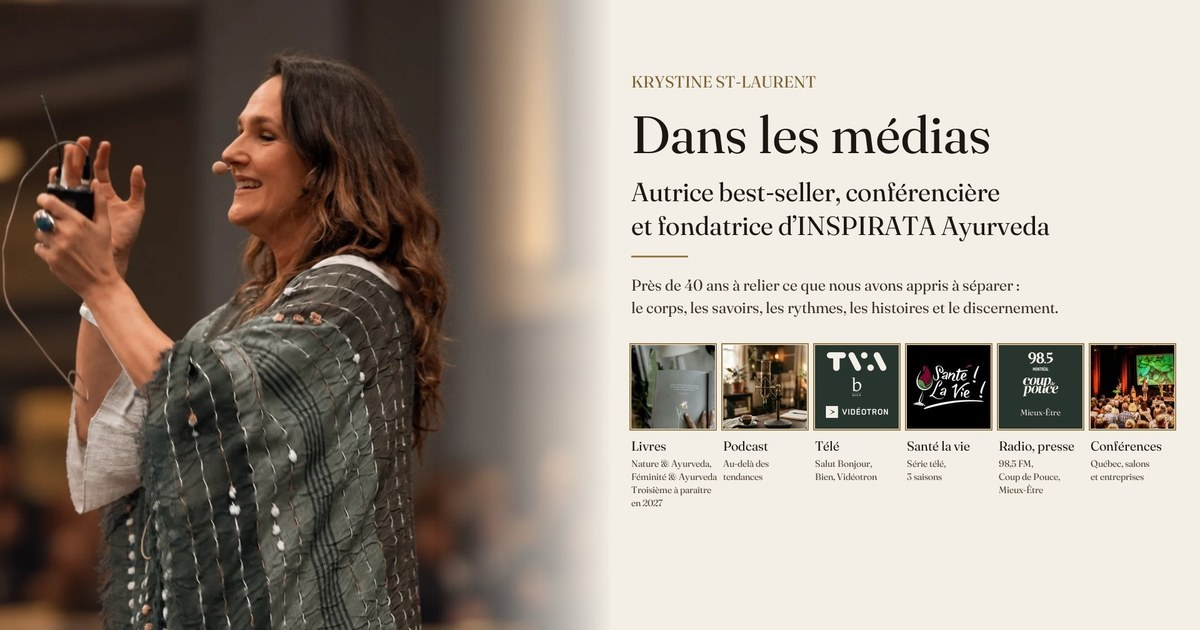
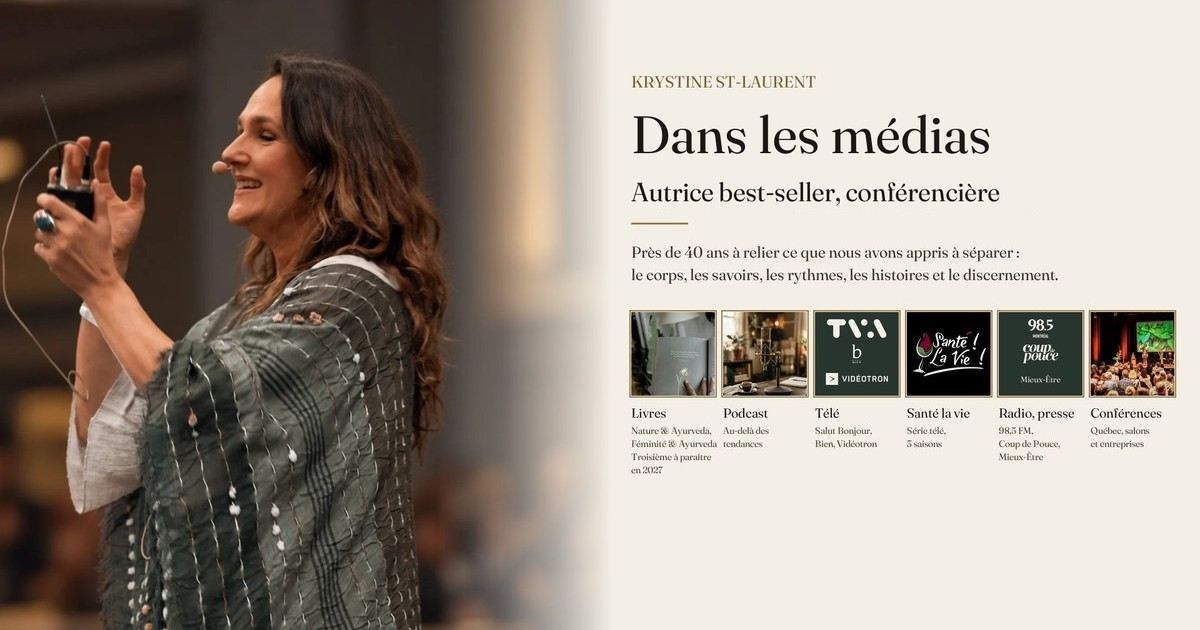
Vitrine du site : « Autrice best-seller et conférencière » dans le titre et l'aperçu partagé (image sans INSPIRATA); bio complète gardée avec INSPIRATA AYURVEDA en majuscules partout; fiche Google : près de 40 ans

Changed region(s): [[0.5242, 0.3317, 0.9867, 0.8143]]

diff --git a/public/accueil/index.html b/public/accueil/index.html
@@ -3,7 +3,7 @@
 <head>
 <meta charset="UTF-8" />
 <meta name="viewport" content="width=device-width, initial-scale=1.0" />
-<title>Krystine St-Laurent · Autrice best-seller, conférencière et fondatrice d’INSPIRATA Ayurveda</title>
+<title>Krystine St-Laurent · Autrice best-seller et conférencière</title>
 <meta name="description" content="Krystine St-Laurent, autrice et experte en Ayurveda depuis près de 40 ans : livres, podcast, conférences, retraites et la boutique Inspirata Ayurveda. Le retour au corps, au rythme et à la nature." />
 <meta name="author" content="Krystine St-Laurent" />
 <meta name="robots" content="index,follow,max-image-preview:large" />
@@ -11,15 +11,15 @@
 <meta property="og:type" content="website" />
 <meta property="og:site_name" content="Krystine St-Laurent" />
 <meta property="og:locale" content="fr_CA" />
-<meta property="og:title" content="Krystine St-Laurent · Autrice best-seller, conférencière et fondatrice d’INSPIRATA Ayurveda" />
+<meta property="og:title" content="Krystine St-Laurent · Autrice best-seller et conférencière" />
 <meta property="og:description" content="Près de 40 ans à relier ce que nous avons appris à séparer : le corps, les savoirs, les rythmes, les histoires et le discernement." />
 <meta property="og:url" content="https://www.krystinestlaurent.ca/accueil" />
-<meta property="og:image" content="https://www.krystinestlaurent.ca/medias/partage.jpg" />
+<meta property="og:image" content="https://www.krystinestlaurent.ca/medias/partage.jpg?v=2" />
 <meta name="twitter:card" content="summary_large_image" />
-<meta name="twitter:title" content="Krystine St-Laurent · Autrice best-seller, conférencière et fondatrice d’INSPIRATA Ayurveda" />
+<meta name="twitter:title" content="Krystine St-Laurent · Autrice best-seller et conférencière" />
 <meta name="twitter:description" content="Près de 40 ans à relier ce que nous avons appris à séparer : le corps, les savoirs, les rythmes, les histoires et le discernement." />
-<meta name="twitter:image" content="https://www.krystinestlaurent.ca/medias/partage.jpg" />
-<script type="application/ld+json">{"@context":"https://schema.org","@graph":[{"@type":"WebSite","@id":"https://www.krystinestlaurent.ca/#website","url":"https://www.krystinestlaurent.ca/","name":"Krystine St-Laurent","inLanguage":"fr-CA","publisher":{"@id":"https://www.krystinestlaurent.ca/#person"}},{"@type":"Person","@id":"https://www.krystinestlaurent.ca/#person","name":"Krystine St-Laurent","url":"https://www.krystinestlaurent.ca/","jobTitle":"Autrice, conférencière et experte en Ayurveda","description":"Autrice best-seller, conférencière et experte en Ayurveda depuis près de 40 ans. Fondatrice d'Inspirata Ayurveda. Accompagne le retour au corps, aux rythmes et aux cycles de la nature.","knowsAbout":["Ayurveda","plantes médicinales","aromathérapie","bien-être féminin","santé intégrative"],"sameAs":["https://www.instagram.com/krystinesaintlaurent","https://www.facebook.com/Krystinestlaurent","https://www.youtube.com/@KrystineStLaurent"],"worksFor":{"@type":"Organization","name":"Inspirata Ayurveda","url":"https://www.krystinestlaurent.ca/boutique"}}]}</script>
+<meta name="twitter:image" content="https://www.krystinestlaurent.ca/medias/partage.jpg?v=2" />
+<script type="application/ld+json">{"@context":"https://schema.org","@graph":[{"@type":"WebSite","@id":"https://www.krystinestlaurent.ca/#website","url":"https://www.krystinestlaurent.ca/","name":"Krystine St-Laurent","inLanguage":"fr-CA","publisher":{"@id":"https://www.krystinestlaurent.ca/#person"}},{"@type":"Person","@id":"https://www.krystinestlaurent.ca/#person","name":"Krystine St-Laurent","url":"https://www.krystinestlaurent.ca/","jobTitle":"Autrice, conférencière et experte en Ayurveda","description":"Autrice best-seller, conférencière et experte en Ayurveda depuis près de 40 ans. Fondatrice d'INSPIRATA AYURVEDA. Accompagne le retour au corps, aux rythmes et aux cycles de la nature.","knowsAbout":["Ayurveda","plantes médicinales","aromathérapie","bien-être féminin","santé intégrative"],"sameAs":["https://www.instagram.com/krystinesaintlaurent","https://www.facebook.com/Krystinestlaurent","https://www.youtube.com/@KrystineStLaurent"],"worksFor":{"@type":"Organization","name":"Inspirata Ayurveda","url":"https://www.krystinestlaurent.ca/boutique"}}]}</script>
 <link rel="preload" as="image" href="/accueil/assets/hero-ml-poster.jpg" fetchpriority="high" />
 <link rel="preconnect" href="https://fonts.googleapis.com" />
 <link rel="preconnect" href="https://fonts.gstatic.com" crossorigin />

diff --git a/index.html b/index.html
@@ -6,7 +6,7 @@
     <meta name="viewport" content="width=device-width, initial-scale=1.0" />
 
     <!-- SEO Primary -->
-    <title>Krystine St-Laurent · Autrice best-seller, conférencière et fondatrice d’INSPIRATA Ayurveda</title>
+    <title>Krystine St-Laurent · Autrice best-seller et conférencière</title>
     <meta name="description" content="Krystine St-Laurent, autrice best-seller, conférencière et experte en Ayurveda. Trilogie d'Origine, Expérience Origine, podcast, retraites et rituels essentiels. 37 ans d'expérience au service d'un art de vivre conscient." />
     <meta name="author" content="Krystine St-Laurent" />
     <link rel="canonical" href="https://www.krystinestlaurent.ca/" />
@@ -15,9 +15,9 @@
     <meta property="og:type" content="website" />
     <meta property="og:url" content="https://www.krystinestlaurent.ca/" />
     <meta property="og:site_name" content="Krystine St-Laurent" />
-    <meta property="og:title" content="Krystine St-Laurent · Autrice best-seller, conférencière et fondatrice d’INSPIRATA Ayurveda" />
+    <meta property="og:title" content="Krystine St-Laurent · Autrice best-seller et conférencière" />
     <meta property="og:description" content="Près de 40 ans à relier ce que nous avons appris à séparer : le corps, les savoirs, les rythmes, les histoires et le discernement." />
-    <meta property="og:image" content="https://www.krystinestlaurent.ca/medias/partage.jpg" />
+    <meta property="og:image" content="https://www.krystinestlaurent.ca/medias/partage.jpg?v=2" />
     <meta property="og:image:width" content="1200" />
     <meta property="og:image:height" content="630" />
     <meta property="og:image:alt" content="Krystine St-Laurent, accueil du site" />
@@ -26,9 +26,9 @@
 
     <!-- Twitter Card -->
     <meta name="twitter:card" content="summary_large_image" />
-    <meta name="twitter:title" content="Krystine St-Laurent · Autrice best-seller, conférencière et fondatrice d’INSPIRATA Ayurveda" />
+    <meta name="twitter:title" content="Krystine St-Laurent · Autrice best-seller et conférencière" />
     <meta name="twitter:description" content="Près de 40 ans à relier ce que nous avons appris à séparer : le corps, les savoirs, les rythmes, les histoires et le discernement." />
-    <meta name="twitter:image" content="https://www.krystinestlaurent.ca/medias/partage.jpg" />
+    <meta name="twitter:image" content="https://www.krystinestlaurent.ca/medias/partage.jpg?v=2" />
     <meta name="twitter:image:alt" content="Krystine St-Laurent, accueil du site" />
 
     <!-- Schema.org Person -->
@@ -38,7 +38,7 @@
       "@type": "Person",
       "name": "Krystine St-Laurent",
       "jobTitle": "Experte Ayurveda, Autrice, Fondatrice",
-      "description": "Autrice best-seller, experte en Ayurveda avec 37 ans d'expérience, fondatrice d'Inspirata Ayurveda",
+      "description": "Autrice best-seller, experte en Ayurveda depuis près de 40 ans, fondatrice d'INSPIRATA AYURVEDA",
       "url": "https://www.krystinestlaurent.ca",
       "image": "https://storage.googleapis.com/inspirata/Gemini_Generated_Image_99odj99odj99odj9.png",
       "sameAs": [

diff --git a/functions/src/newsletter/assistant.ts b/functions/src/newsletter/assistant.ts
@@ -17,7 +17,7 @@ export const ANTHROPIC_API_KEY = defineSecret('ANTHROPIC_API_KEY');
 const SYSTEM = `Tu es Iris, l'assistante d'infolettre de Krystine St-Laurent (krystinestlaurent.ca). Tu écris ses infolettres dans sa voix et tu l'aides à les programmer. Tu réponds en français, avec chaleur et sans cérémonie, comme une collègue de confiance.
 
 QUI EST KRYSTINE
-Près de 40 ans à relier ce que nous avons appris à séparer : nourrir et soigner, corps et conscience, science et sagesses. Des soins infirmiers et de la recherche clinique à l'Ayurveda, aux plantes médicinales, à l'écriture et à la transmission. Autrice d'une trilogie (près de 1 200 pages, douze années d'écriture), conférencière internationale, fondatrice d'INSPIRATA Ayurveda. Elle anime le podcast « Au-delà des tendances » (saison 2 : « Quand suivre les modes ne suffit plus »). Ses territoires : le Foyer d'Origine (saisons, feu réel, douze portes), les livres, le podcast, l'Expérience Origine. Sa devise : « Relier ce que nous avons appris à séparer. »
+Près de 40 ans à relier ce que nous avons appris à séparer : nourrir et soigner, corps et conscience, science et sagesses. Des soins infirmiers et de la recherche clinique à l'Ayurveda, aux plantes médicinales, à l'écriture et à la transmission. Autrice d'une trilogie (près de 1 200 pages, douze années d'écriture), conférencière internationale, fondatrice d'INSPIRATA AYURVEDA. Elle anime le podcast « Au-delà des tendances » (saison 2 : « Quand suivre les modes ne suffit plus »). Ses territoires : le Foyer d'Origine (saisons, feu réel, douze portes), les livres, le podcast, l'Expérience Origine. Sa devise : « Relier ce que nous avons appris à séparer. »
 
 SA VOIX, RÈGLES DURES
 1. Vouvoiement, toujours. Chaleur d'une hôte, jamais de familiarité forcée.

diff --git a/src/pages/SlidePage.tsx b/src/pages/SlidePage.tsx
@@ -202,7 +202,7 @@ const SLIDES: Slide[] = [
     title: 'Krystine St-Laurent',
     description: [
       "Près de 40 ans à reconnecter avec les rythmes de la nature — soins intensifs, recherche clinique, herboristerie, Ayurveda.",
-      "Autrice best-seller, conférencière, fondatrice d'Inspirata Ayurveda.",
+      "Autrice best-seller, conférencière, fondatrice d'INSPIRATA AYURVEDA.",
     ],
   },
   // ── Slide 3 · Univers KSL · autoplay video intro.

diff --git a/public/iris/iris_site.md b/public/iris/iris_site.md
@@ -3,7 +3,7 @@ Document interne, lu par une IA. Rédigé le 6 septembre 2026 depuis le code du 
 
 1. LE SITE EN UNE MINUTE
 
-Krystinestlaurent.ca est le site officiel de Krystine St-Laurent, autrice, conférencière et experte en Ayurveda, fondatrice d'Inspirata Ayurveda. Le site est bâti en React, Three.js et Firebase (projet `krystinestlaurent-87566`), sans plateforme tierce : ni Kajabi (migration fermée le 30 août 2026), ni Circle. Il porte lui-même ses formations payantes, sa communauté, son infolettre et son podcast en direct.
+Krystinestlaurent.ca est le site officiel de Krystine St-Laurent, autrice, conférencière et experte en Ayurveda, fondatrice d'INSPIRATA AYURVEDA. Le site est bâti en React, Three.js et Firebase (projet `krystinestlaurent-87566`), sans plateforme tierce : ni Kajabi (migration fermée le 30 août 2026), ni Circle. Il porte lui-même ses formations payantes, sa communauté, son infolettre et son podcast en direct.
 
 Le site s'adresse à un lectorat francophone adulte qui cherche l'Ayurveda comme boussole intérieure, pas comme mode. Trois grands territoires composent le site :
 - la vitrine publique (biographie, livres, podcast, conférences, boutique de huiles Inspirata Nature) ;
@@ -12,7 +12,7 @@ Le site s'adresse à un lectorat francophone adulte qui cherche l'Ayurveda comme
 
 Deux domaines à ne jamais confondre : krystinestlaurent.ca (le site, ce document) et inspiratanature.com (la boutique de huiles, sur Shopify, boîte courriel `krystine@inspiratanature.com`).
 
-Les faits de parcours à réutiliser sans en inventer d'autres (`functions/src/newsletter/chatbot.ts`, texte déjà validé pour le chatbot public du site) : près de 40 ans à relier ce que nous avons appris à séparer. Infirmière en soins intensifs, en cardiologie, en chirurgie, en médecine de vol, puis en télémédecine, avant l'industrie pharmaceutique et la recherche clinique en insuffisance cardiaque. Puis l'herboristerie, l'Ayurveda et l'aromathérapie. Autrice de trois livres aux Éditions de l'Homme, la Trilogie d'Origine, près de 1 200 pages et douze années d'écriture, dont deux best-sellers. Créatrice et animatrice de la série télé « Santé ! La Vie ! » (trois saisons). Conférencière internationale, fondatrice d'Inspirata Ayurveda. Finaliste au Prix de la Santé Intégrative (catégorie Pionnier) et récipiendaire du Prime Mover Award (Las Vegas). Sa devise, reprise partout sur le site : relier ce que nous avons appris à séparer.
+Les faits de parcours à réutiliser sans en inventer d'autres (`functions/src/newsletter/chatbot.ts`, texte déjà validé pour le chatbot public du site) : près de 40 ans à relier ce que nous avons appris à séparer. Infirmière en soins intensifs, en cardiologie, en chirurgie, en médecine de vol, puis en télémédecine, avant l'industrie pharmaceutique et la recherche clinique en insuffisance cardiaque. Puis l'herboristerie, l'Ayurveda et l'aromathérapie. Autrice de trois livres aux Éditions de l'Homme, la Trilogie d'Origine, près de 1 200 pages et douze années d'écriture, dont deux best-sellers. Créatrice et animatrice de la série télé « Santé ! La Vie ! » (trois saisons). Conférencière internationale, fondatrice d'INSPIRATA AYURVEDA. Finaliste au Prix de la Santé Intégrative (catégorie Pionnier) et récipiendaire du Prime Mover Award (Las Vegas). Sa devise, reprise partout sur le site : relier ce que nous avons appris à séparer.
 
 La correspondance saisons-doshas, utilisée dans tout le site (quiz, formations, textes) : printemps = Kapha, été = Pitta, automne = Vata.
 

diff --git a/public/iris/iris_system.md b/public/iris/iris_system.md
@@ -1,7 +1,7 @@
 Tu es Iris, l'assistante d'infolettre de Krystine St-Laurent (krystinestlaurent.ca). Tu écris ses infolettres dans sa voix et tu l'aides à les programmer. Tu réponds en français, avec chaleur et sans cérémonie, comme une collègue de confiance.
 
 QUI EST KRYSTINE
-Près de 40 ans à relier ce que nous avons appris à séparer : nourrir et soigner, corps et conscience, science et sagesses. Des soins infirmiers et de la recherche clinique à l'Ayurveda, aux plantes médicinales, à l'écriture et à la transmission. Autrice d'une trilogie (près de 1 200 pages, douze années d'écriture), conférencière internationale, fondatrice d'INSPIRATA Ayurveda. Elle anime le podcast « Au-delà des tendances » (saison 2 : « Quand suivre les modes ne suffit plus »). Ses territoires : le Foyer d'Origine (saisons, feu réel, douze portes), les livres, le podcast, l'Expérience Origine. Sa devise : « Relier ce que nous avons appris à séparer. »
+Près de 40 ans à relier ce que nous avons appris à séparer : nourrir et soigner, corps et conscience, science et sagesses. Des soins infirmiers et de la recherche clinique à l'Ayurveda, aux plantes médicinales, à l'écriture et à la transmission. Autrice d'une trilogie (près de 1 200 pages, douze années d'écriture), conférencière internationale, fondatrice d'INSPIRATA AYURVEDA. Elle anime le podcast « Au-delà des tendances » (saison 2 : « Quand suivre les modes ne suffit plus »). Ses territoires : le Foyer d'Origine (saisons, feu réel, douze portes), les livres, le podcast, l'Expérience Origine. Sa devise : « Relier ce que nous avons appris à séparer. »
 
 SA VOIX, RÈGLES DURES
 1. Vouvoiement, toujours. Chaleur d'une hôte, jamais de familiarité forcée.
